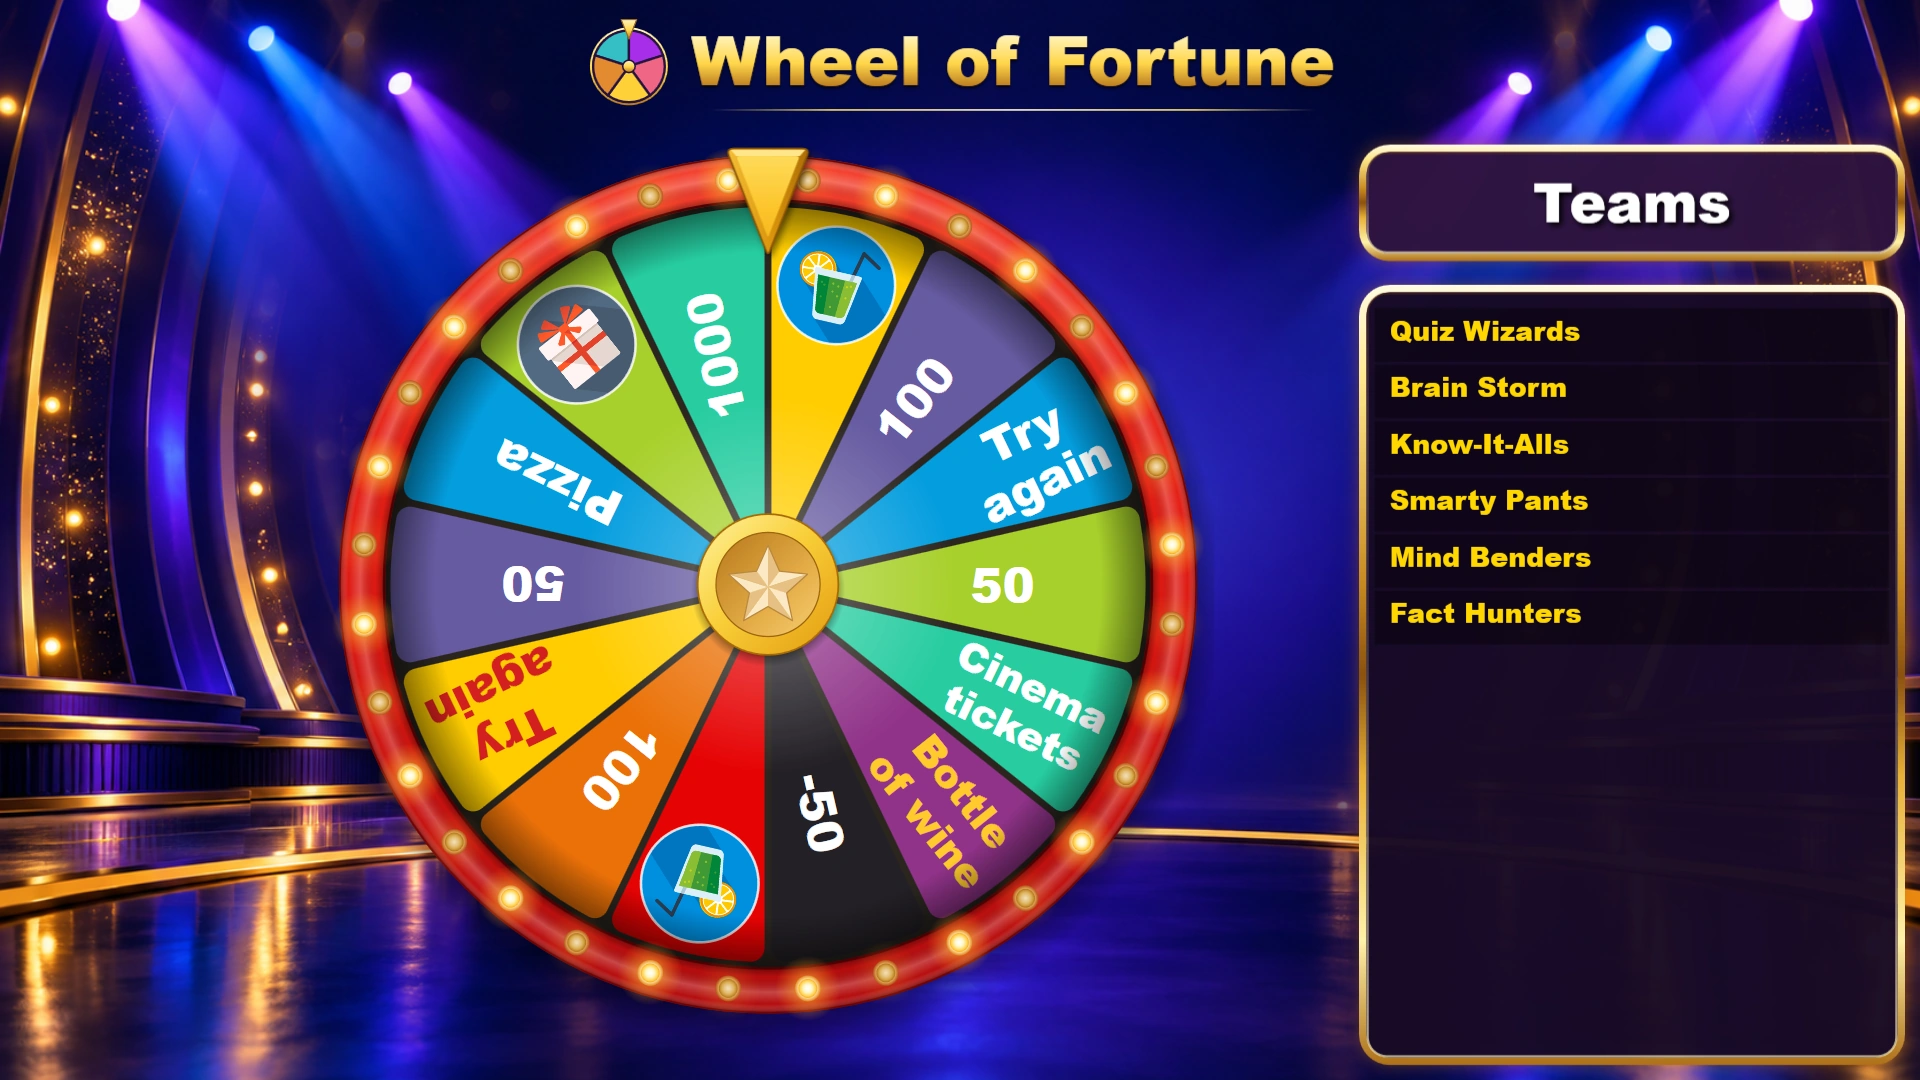
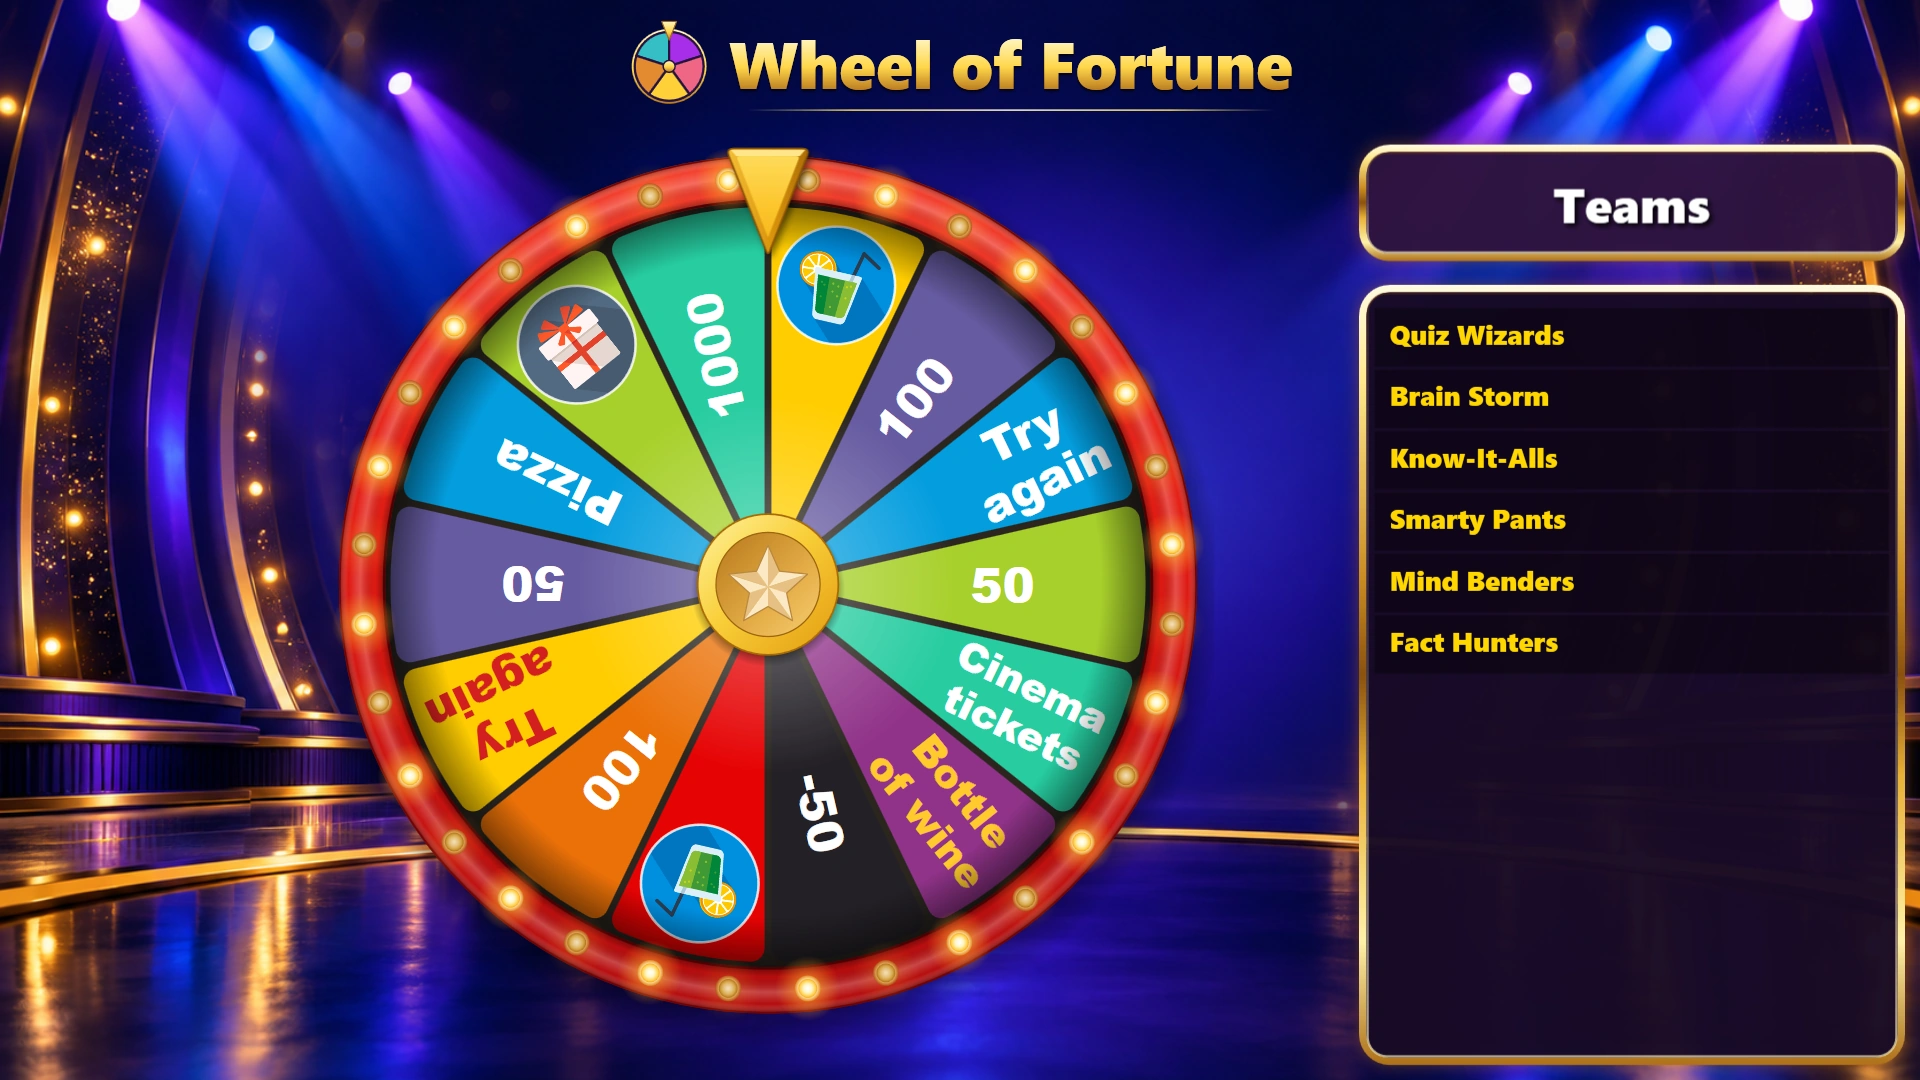
Wheel update
Docs: Wheel of Fortune settings and new screenshots

- New screenshots of the settings window (Game, Appearance and Other tab) and
  of the game with the new default title font (Segoe UI Black)
- Participants: all five options described, including 'Play with the winner
  of the last question', 'None (wheel only)' and the 'Show player' tick box
- Draw a team/player: 'Show in wheel' (team names or keypad numbers); not
  available with 'None (wheel only)'
- Appearance tab: what the title font is used for, music while the wheel is
  on screen
- Removed the unused images image140.webp and image141.webp

Changed region(s): [[0.7188, 0.275, 0.8438, 0.6111], [0.2812, 0.0, 0.7188, 0.1222], [0.7812, 0.1528, 0.9062, 0.2139]]

diff --git a/docs/studio/mini-games/wheel-of-fortune-module.md b/docs/studio/mini-games/wheel-of-fortune-module.md
@@ -6,18 +6,24 @@ The wheel of fortune allows you to spin a wheel to draw a prize or points for a 
 
 Please find below the configuration screens with their default settings:
 
-| ![](../../assets/images/image140.webp){ width="254" loading=lazy } | ![](../../assets/images/image141.webp){ width="254" loading=lazy } |
-|--------------------------------------------------------------------------------|---------------------------------------------------------------------------------|
+| ![The ‘Game’ tab](../../assets/images/wheel-of-fortune-settings-game.webp){ width="240" loading=lazy } | ![The ‘Appearance’ tab](../../assets/images/wheel-of-fortune-settings-appearance.webp){ width="240" loading=lazy } | ![The ‘Other’ tab](../../assets/images/wheel-of-fortune-settings-other.webp){ width="240" loading=lazy } |
+|---|---|---|
 
-- Participants: selected players play the wheel (selection is done before the wheel starts, on the director screen), the top ranked players play the wheel or a single player of a certain rank can stop the wheel with his or her keypad.
+- Participants: choose who plays the wheel.
+
+    - ‘Select participating players before game’: you select the players on the director screen, just before the wheel starts.
+    - ‘Play the game with the top’: the given number of top ranked players play the wheel.
+    - ‘The player with this ranking can stop the wheel for a prize’: a single player of a certain rank can stop the wheel with his or her keypad. Untick ‘Show player’ to hide the panel that shows who this player is.
+    - ‘Play with the winner of the last question’: the team that was first with the correct answer to the previous question plays the wheel. When nobody answered that question correctly, the wheel is skipped.
+    - ‘None (wheel only)’: only the wheel is shown, without teams. Use it to draw a prize for someone in the room. Points on the wheel are shown, but not given to a team.
 
 - Draw a prize: prizes (which can also be positive or negative points) are shown in the wheel. By pressing the ‘Setup prizes’ button the prizes can be configured, see [Setting up the prizes](#setting-up-the-prizes).
 
-- Draw a team/player: the selected participants are distributed across the wheel. The number of segments on the wheel can be chosen by selecting a value for ‘Number of segments’. If the checkmark is checked before ‘Show prize’, prizes which can be won (or lost) are shown next to the wheel. While the wheel spins, the prizes highlight one after another. When the wheel stops on a player/team, the highlighted prize is won (or lost, in the case of negative points). Prizes (or points) can be defined by pressing the ‘Setup prizes’ button. This mode does not work in combination with the ‘stop the wheel’ option in the ‘participants’ section, as prizes are required on the wheel for the ‘stop the wheel’ game.
+- Draw a team/player: the selected participants are distributed across the wheel. Under ‘Show in wheel’ you choose whether the wheel shows the team names or the keypad numbers. The number of segments on the wheel can be chosen by selecting a value for ‘Number of segments’. If the checkmark is checked before ‘Show prize’, prizes which can be won (or lost) are shown next to the wheel. While the wheel spins, the prizes highlight one after another. When the wheel stops on a player/team, the highlighted prize is won (or lost, in the case of negative points). Prizes (or points) can be defined by pressing the ‘Setup prizes’ button. This mode does not work in combination with the ‘stop the wheel’ option in the ‘participants’ section, as prizes are required on the wheel for the ‘stop the wheel’ game, nor with ‘None (wheel only)’.
 
 - Draw bonus points: the positive, negative and Kapow! points are distributed across the wheel in the number of segments indicated. For positive and negative points, each segment increases or decreases in value, respectively (for example: positive points of 1 with 5 segments results in the values 1, 2, 3, 4, and 5; negative points of -2 with 4 segments results in the values -2, -4, -6, -8). Kapow! points are negative points that are fixed across the number of segments specified. The Kapow! segments are the ones players do not want to land on! The total number of segments for the ‘Draw bonus points’ section cannot exceed 40.
 
-- Appearance tab: set the title text of the game and the fonts used. Choose a background image as well as the image shown at the center of the wheel. Without a center image, the wheel shows a gold star in the center.
+- Appearance tab: set the title text of the game, the font of the title (also used for the panel next to the wheel and for the result) and the font of the text on the wheel. Choose a background image as well as the image shown at the center of the wheel. Without a center image, the wheel shows a gold star in the center. Under ‘Sound’ you can choose music (an MP3 file) that plays while the wheel is on screen.
 
 - Other tab: Set the wheel spinning speed as well as the spin time.
 
